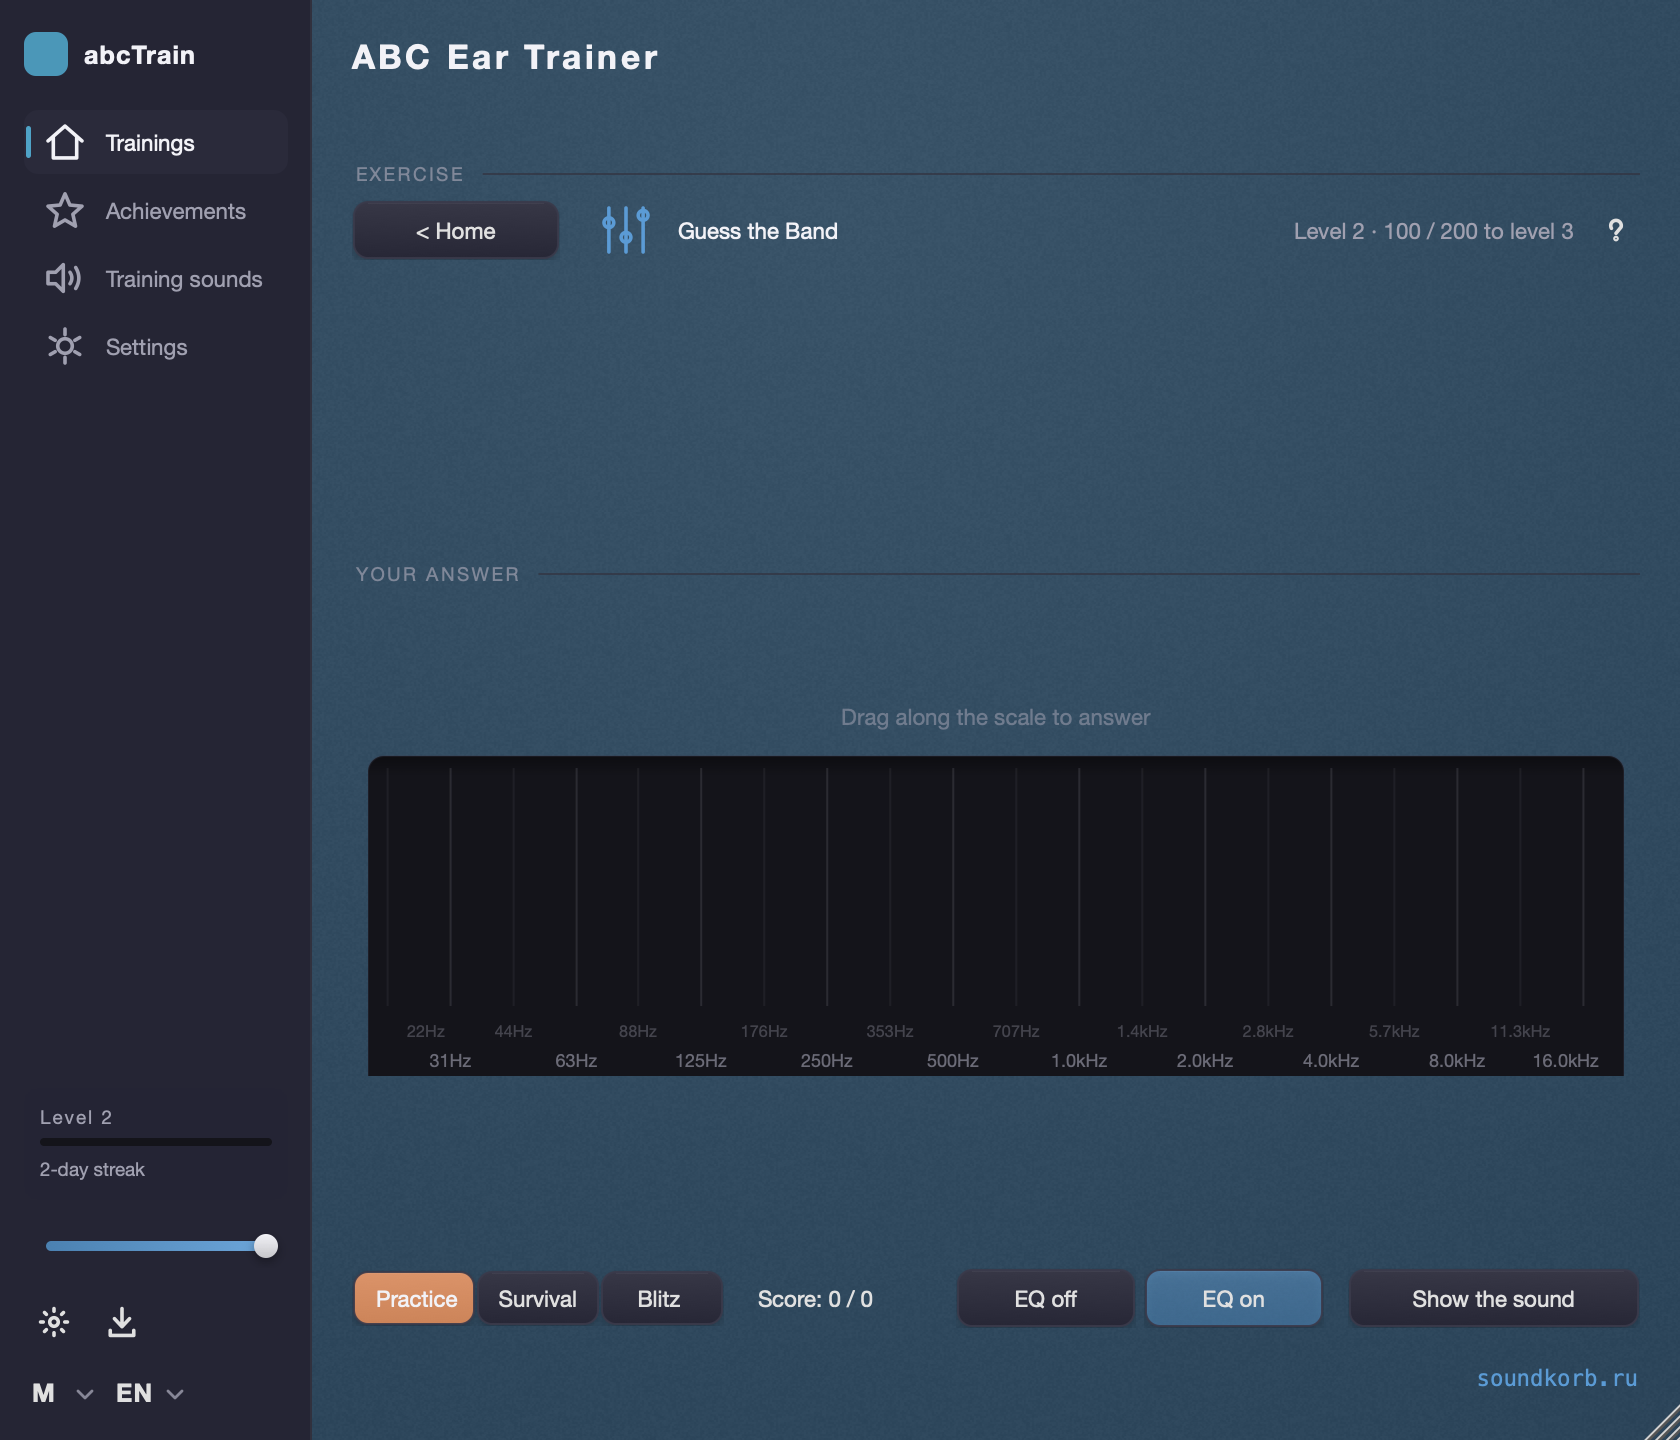
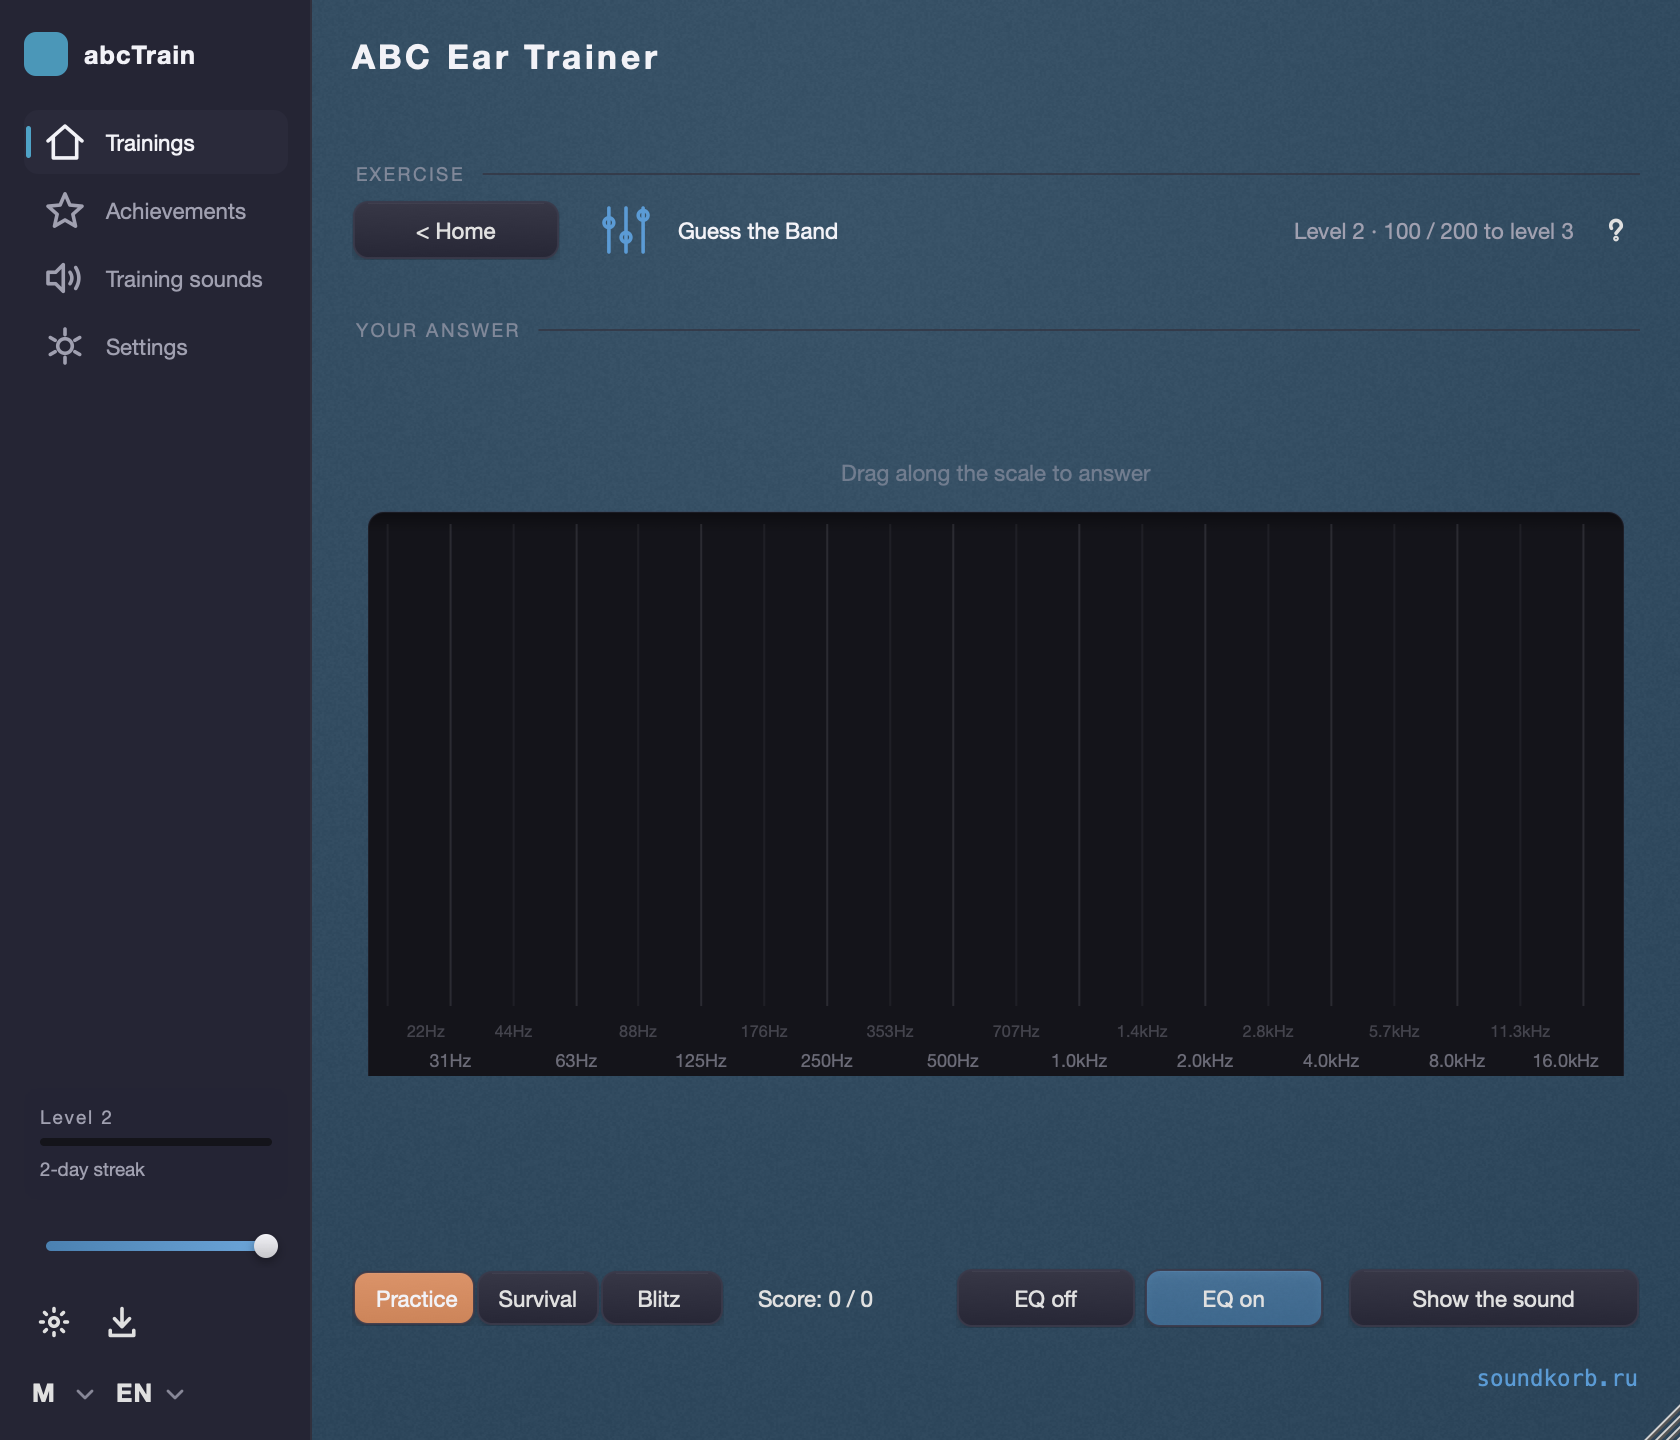
The third answer to the hint-space question, and the first good one
Resizing the window when a hint appeared was wrong: it shoves every other
window in the DAW at the moment somebody is trying to read a picture.
Reserving the space permanently was also wrong, and the render said so
faster than the reasoning did - an empty reserved strip does not read as
"the picture goes here", it reads as something that failed to load, and
the training screen without a hint had a void in the middle of it.

The window stays fixed and the scale reflows: without a hint it may take
the room a hint would have used, with one it gives that room back. One
control changes size inside a window that never moves, which is the
version with no victim.

The two answer zones are separate cards now, not one recessed slab
divided by a hairline. Two named alternatives are two things you can
pick, and a dark rectangle with a line down the middle and a word in each
half is a diagram of a rectangle - which is most of what made this screen
read as boxes. The gap says "these are two"; the hairline was saying it
far too quietly, and only because the slab underneath was saying "these
are one". Selection and the verdict now lift the card's border as well as
tinting its fill, so neither rests on colour alone.

Changed region(s): [[0.2167, 0.3125, 0.9905, 0.5312], [0.2167, 0.2188, 0.3095, 0.25]]

diff --git a/Source/ChoiceSliderComponent.cpp b/Source/ChoiceSliderComponent.cpp
@@ -317,13 +317,16 @@ void ChoiceSliderComponent::paintScale (juce::Graphics& g)
 
     const auto scaleArea = getScaleArea().toFloat();
 
-    // ---- the recessed panel the zones live in ----
-    AbcTrainLookAndFeel::paintDisplayWell (g, scaleArea);
-
-    juce::Graphics::ScopedSaveState clipped (g);
-    juce::Path panelClip;
-    panelClip.addRoundedRectangle (scaleArea, AbcTrainTheme::Radius::well);
-    g.reduceClipRegion (panelClip);
+    // ---- the zones ----
+    //
+    // Separate cards with a gap, not one recessed slab divided by a
+    // hairline. Two named alternatives are two *things you can pick*, and
+    // a single dark rectangle with a line down the middle and a word in
+    // each half is a diagram of a rectangle - which is most of what made
+    // this screen read as boxes. A gap says "these are two"; the hairline
+    // was saying it far too quietly, and only because the slab underneath
+    // was saying "these are one".
+    constexpr float zoneGap = 10.0f;
 
     for (int i = 0; i < n; ++i)
     {
@@ -336,11 +339,22 @@ void ChoiceSliderComponent::paintScale (juce::Graphics& g)
         // is already selected", which is a lie the moment the panel opens.
         // Two identical halves and the hairline between them is all a
         // pair needs.
-        const auto zoneFill = (n > 2 && i % 2 == 0) ? theme.displayBackground.brighter (0.11f)
-                                                    : theme.displayBackground.brighter (0.02f);
+        // Inset so neighbours do not touch, but square at the outer edges
+        // so the pair still sits flush in the space it was given.
+        const auto face = zone.withTrimmedLeft (i == 0 ? 0.0f : zoneGap * 0.5f)
+                        .withTrimmedRight (i == n - 1 ? 0.0f : zoneGap * 0.5f);
 
-        g.setColour (zoneFill);
-        g.fillRect (zone);
+        AbcTrainLookAndFeel::paintDisplayWell (g, face);
+
+        // Alternating shading, for a row long enough that the eye needs
+        // help counting it. With exactly two it does the opposite: one
+        // lighter half beside one darker half reads as "the left one is
+        // already selected", which is a lie the moment the panel opens.
+        if (n > 2 && i % 2 == 0)
+        {
+            g.setColour (theme.displayBackground.brighter (0.06f));
+            g.fillRoundedRectangle (face, AbcTrainTheme::Radius::well);
+        }
 
         // Verdict and highlight are overlays on the stripe rather than
         // replacements for it, so the answer colours can fade in on the
@@ -358,14 +372,17 @@ void ChoiceSliderComponent::paintScale (juce::Graphics& g)
         if (! overlay.isTransparent())
         {
             g.setColour (overlay);
-            g.fillRect (zone);
+            g.fillRoundedRectangle (face, AbcTrainTheme::Radius::well);
         }
 
-        // Hairline between zones (not after the last one).
-        if (i > 0)
+        // The highlighted card also lifts its border, so hover and
+        // selection are not carried by fill alone.
+        if (isHighlighted || (answered && (i == correctIndex || i == chosenIndex)))
         {
-            g.setColour (theme.outline.withAlpha (0.5f));
-            g.drawLine (zone.getX(), zone.getY(), zone.getX(), zone.getBottom(), 1.0f);
+            const auto edge = answered ? (i == correctIndex ? theme.positive : theme.negative)
+                                       : theme.accent;
+            g.setColour (edge.withAlpha (0.55f));
+            g.drawRoundedRectangle (face.reduced (0.5f), AbcTrainTheme::Radius::well, 1.2f);
         }
     }
 

diff --git a/Source/PluginEditor.cpp b/Source/PluginEditor.cpp
@@ -1211,12 +1211,9 @@ void EarTrainerEditor::resized()
     // reads as space, where a dimmed placeholder box would read as a
     // broken element. Between hearing and answering, which is the order
     // you use it in.
-    {
-        hintSection = area.removeFromTop (hintPanelHeight);
-    }
-
     if (hintRevealed)
     {
+        hintSection = area.removeFromTop (hintPanelHeight);
 
         auto inner = hintSection;
         inner.removeFromTop (Spacing::large);   // clear the section heading
@@ -1250,10 +1247,7 @@ void EarTrainerEditor::resized()
     }
     else
     {
-        // Reserved above; nothing is drawn in it until a hint is bought.
-        vectorscope.setBounds ({});
-        hintSpectrum.setBounds ({});
-        hintWaveform.setBounds ({});
+        hintSection = {};
     }
 
     {
@@ -1345,7 +1339,19 @@ void EarTrainerEditor::resized()
         // made this screen read as boxes. Past the cap the leftover
         // becomes air around the control instead of more control, which
         // is what every interface worth copying does with spare room.
-        constexpr int maxScaleHeight = 210;
+        // Two caps, not one. Without a hint the scale may take the room a
+        // hint would have used; with one, it gives that room back.
+        //
+        // This is the third answer to the same question and the first good
+        // one. Resizing the *window* was wrong - it shoves every other
+        // window in the DAW at the moment somebody is trying to read a
+        // picture. Reserving the space permanently was also wrong: an empty
+        // reserved strip does not read as "the picture goes here", it reads
+        // as something that failed to load, and the render made that
+        // obvious in a way the reasoning had not. Letting one control
+        // reflow inside a window that never moves is the version with no
+        // victim.
+        const auto maxScaleHeight = hintRevealed ? 210 : 210 + hintPanelHeight;
         const auto scaleHeight = juce::jlimit (186, maxScaleHeight, inner.getHeight());
 
         // Anchored to the top of what is left, not centred in it. Centring
